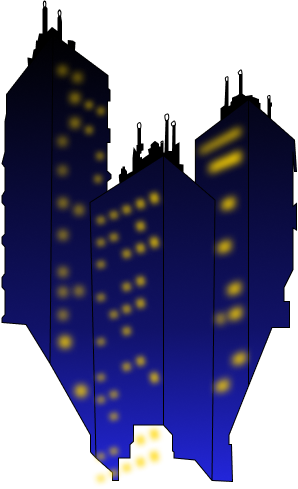
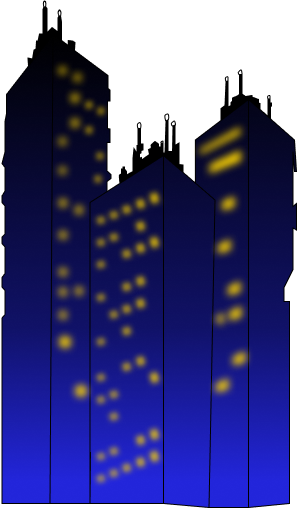
clean-up showBuilding objects. insert navigation click method.

diff --git a/src/container/main/fragment/ShowBuilding.tsx b/src/container/main/fragment/ShowBuilding.tsx
@@ -1,19 +1,77 @@
-import React from 'react';
+import React, { RefObject, useEffect, useRef } from 'react';
 import styled from '@emotion/styled';
 import { ReactComponent as BlurEffect } from '../../../assets/header/blur_effect.svg';
 import { ReactComponent as DarkBuilding } from '../../../assets/header/dark buildeing.svg';
+import { ReactComponent as Ground } from '../../../assets/header/ground.svg';
 import { ReactComponent as Logo } from '../../../assets/logo.svg';
 import Background from '../../../assets/header/background.png';
 import BrightBuilding from '../../../assets/header/bright building.png';
 
-const ShowBuilding = () => {
+export interface ReferenceProp {
+  callbackHeight: (height: number) => void;
+}
+
+const ShowBuilding: React.FC<ReferenceProp> = ({ callbackHeight }) => {
+  const darkBuildingRef = useRef<SVGSVGElement>(null);
+  const brightBuildingRef = useRef<HTMLImageElement>(null);
+  const starsRef = useRef<HTMLImageElement>(null);
+  const groundRef = useRef<SVGSVGElement>(null);
+
+  const WrapperRef = useRef<HTMLDivElement>(null);
+
+  const scrollHandler = () => {
+    if (
+      !darkBuildingRef.current ||
+      !brightBuildingRef.current ||
+      !starsRef.current ||
+      !groundRef.current
+    )
+      return;
+    const scrollTop: number = document.documentElement.scrollTop;
+    groundRef.current.style.transform = `translate3d(-50%, ${
+      -scrollTop * 0.3
+    }px, 0px)`;
+    darkBuildingRef.current.style.transform = `translate3d(-50%, ${
+      -scrollTop * 0.3
+    }px, 0px)`;
+    brightBuildingRef.current.style.transform = `translate3d(-50%, ${
+      -scrollTop * 0.12
+    }px, 0px)`;
+    starsRef.current.style.transform = `translate3d(-50%, ${
+      -scrollTop * 0.01
+    }px, 0px)`;
+  };
+
+  useEffect(() => {
+    window.addEventListener('scroll', scrollHandler);
+    return () => {
+      window.removeEventListener('scroll', scrollHandler);
+    };
+  }, []);
+
+  useEffect(() => {
+    if (!WrapperRef.current) return;
+    callbackHeight(WrapperRef.current.clientHeight);
+  }, []);
+
   return (
-    <Wrapper>
+    <Wrapper ref={WrapperRef}>
       <BuildingWrapper>
-        <img src={Background} alt={'img1'} className={`background`} />
-        <DarkBuilding className={`header-image dark-building`} />
+        <img
+          src={Background}
+          alt={'img1'}
+          className={`background`}
+          ref={starsRef}
+        />
+        <DarkBuilding className={`dark-building`} ref={darkBuildingRef} />
         <BlurEffect className={`header-image blur-effect`} />
-        <img src={BrightBuilding} alt={'img2'} className={'bright-building'} />
+        <img
+          src={BrightBuilding}
+          alt={'img2'}
+          className={`bright-building`}
+          ref={brightBuildingRef}
+        />
+        <Ground className={`ground`} ref={groundRef} />
         <div className={'logo'}>
           <Logo />
           <span
@@ -31,52 +89,77 @@ const ShowBuilding = () => {
 };
 
 const Wrapper = styled.div`
-  min-height: 720px;
+  width: var(--desktop-content);
   position: relative;
-  top: 0;
-  left: 0;
+  margin: -30px auto;
 `;
 
 const BuildingWrapper = styled.div`
+  position: relative;
+  width: 100%;
+  height: 720px;
+  display: flex;
+  justify-content: center;
+
   & > svg.header-image {
-    position: absolute;
+    position: fixed;
     user-select: none;
+    top: 0;
     left: 50%;
-    transform: translate(-50%);
+    transform: translateX(-50%);
+    margin: 0 auto;
   }
 
   & > img {
-    position: absolute;
+    position: fixed;
     user-select: none;
+  }
+
+  .background {
+    max-width: 1436px;
+    max-height: 1138px;
+    height: 100vh;
+    z-index: 0;
+    left: 50%;
+  }
+
+  .bright-building {
+    max-width: 500px;
+    max-height: 1138px;
+    height: 100vh;
+    z-index: 1;
+    top: 0;
+    left: 50%;
+  }
+
+  .ground {
+    width: 100vw;
+    position: fixed;
+    top: 80%;
+    z-index: 2;
     left: 50%;
     transform: translate(-50%);
   }
 
-  .background {
-    width: 1183px;
-    z-index: 0;
-  }
-
-  .bright-building {
-    width: 242px;
-    z-index: 1;
-    top: calc(26% - 20px);
-    left: calc(50% - 13px);
-  }
-
   .blur-effect {
+    height: 100vw;
     z-index: 2;
     top: 10%;
   }
 
   .dark-building {
-    width: 1183px;
+    max-width: 100%;
+    height: 100vh;
+    position: fixed;
+    top: 20%;
+    left: 50%;
+    transform: translateX(-50%);
     z-index: 3;
   }
 
   .logo {
     position: absolute;
-    bottom: calc(-20% - var(--gap-16));
+    top: calc(100% + var(--gap-16));
     left: 50%;
     transform: translateX(-50%);
     z-index: 4;

diff --git a/src/component/Navigation.tsx b/src/component/Navigation.tsx
@@ -1,33 +1,63 @@
-import React from 'react';
+import React, { RefObject } from 'react';
 import styled from '@emotion/styled';
 import { ReactComponent as Logo } from '../assets/logo.svg';
 
-const Navigation = () => {
+interface MoveProp {
+  ScrollHeights: number[];
+}
+
+const Navigation: React.FC<MoveProp> = ({ ScrollHeights }) => {
+  const NavigatorHandler = (index: number) => {
+    console.log(ScrollHeights);
+    if (ScrollHeights.length <= index) return;
+    let scrollOffset = 0;
+    ScrollHeights.forEach((item, i) => {
+      if (i <= index) {
+        scrollOffset += item;
+      }
+    });
+    window.scrollTo({ top: scrollOffset, behavior: 'smooth' });
+  };
   return (
     <Wrapper>
-      <Logo />
+      <Logo
+        onClick={() => {
+          window.scrollTo({ top: 0, behavior: 'smooth' });
+        }}
+      />
       <NavItems>
-        <span className={'icy-justice-16'}>story</span>
-        <span className={'icy-justice-16'}>collection</span>
-        <span className={'icy-justice-16'}>roadmap</span>
-        <span className={'icy-justice-16'}>team</span>
-        <span className={'icy-justice-16'}>faq</span>
+        <span className={'icy-justice-16'} onClick={() => NavigatorHandler(0)}>
+          story
+        </span>
+        <span className={'icy-justice-16'} onClick={() => NavigatorHandler(1)}>
+          collection
+        </span>
+        <span className={'icy-justice-16'} onClick={() => NavigatorHandler(2)}>
+          roadmap
+        </span>
+        <span className={'icy-justice-16'} onClick={() => NavigatorHandler(3)}>
+          team
+        </span>
+        <span className={'icy-justice-16'} onClick={() => NavigatorHandler(4)}>
+          faq
+        </span>
       </NavItems>
     </Wrapper>
   );
 };
 
 const Wrapper = styled.div`
-  position: absolute;
-  left: 50%;
-  transform: translate(-50%);
+  position: sticky;
+  left: 0;
+  top: var(--gap-48);
+  max-width: 100vw;
   width: var(--desktop-content);
   display: flex;
   justify-content: space-between;
   align-items: center;
   gap: var(--gap-64);
-  margin: var(--gap-48) auto 0 auto;
-  z-index: 5;
+  margin: 0 auto;
+  z-index: 10;
 
   & > svg {
     cursor: pointer;

diff --git a/src/container/main/fragment/Article.tsx b/src/container/main/fragment/Article.tsx
@@ -1,17 +1,20 @@
-import React, { useRef, useState } from 'react';
+import React, { useEffect, useRef, useState } from 'react';
 import styled from '@emotion/styled';
 import NetflixDivider from '../../../assets/divider/netflix-backgorund.png';
 import BrowserDndTab from '../../../component/BrowserDndTab';
 import NewsBrowser from '../../../component/NewsBrowser';
+import { ReferenceProp } from './ShowBuilding';
 
 interface EpisodeType {
   isSelected: boolean;
 }
 
-const Article = () => {
+const Article: React.FC<ReferenceProp> = ({ callbackHeight }) => {
   const [selectedIndex, setSelectedIndex] = useState<number>(0);
   const selectedIndexList = useRef<number[]>([0]);
   const [render, setRender] = useState<boolean>(false);
+
+  const ref = useRef<HTMLDivElement>(null);
   const reRender = () => setRender((prev) => !prev);
   //TODO: Extract IndexList from NetflixEpisode Container and join with newsBrowser. adjust DND effect.
 
@@ -23,8 +26,13 @@ const Article = () => {
     }
   };
 
+  useEffect(() => {
+    if (!ref.current) return;
+    callbackHeight(ref.current.clientHeight);
+  }, []);
+
   return (
-    <Wrapper>
+    <Wrapper ref={ref}>
       <img src={NetflixDivider} alt={'divider'} />
       <div className={'background'} />
       <NetflixContainer>

diff --git a/src/container/main/mainIndex.tsx b/src/container/main/mainIndex.tsx
@@ -1,4 +1,4 @@
-import React from 'react';
+import React, { useState } from 'react';
 import styled from '@emotion/styled';
 import ShowBuilding from './fragment/ShowBuilding';
 import Navigation from '../../component/Navigation';
@@ -8,11 +8,26 @@ import InfiniteBand from '../../component/InfiniteBand';
 import RoadMap from '../../component/RoadMap';
 
 const MainIndex = () => {
+  const [refHeights, setRefHeights] = useState<number[]>([]);
+
+  const heightManager = (height: number, index: number) => {
+    refHeights[index] = height;
+    setRefHeights((prev) => [...prev]);
+  };
+
   return (
     <Wrapper>
-      <Navigation />
-      <ShowBuilding />
-      <Article />
+      <Navigation ScrollHeights={refHeights} />
+      <ShowBuilding
+        callbackHeight={(height) => {
+          heightManager(height, 0);
+        }}
+      />
+      <Article
+        callbackHeight={(height) => {
+          heightManager(height, 1);
+        }}
+      />
       <Collection />
       <InfiniteBand />
       <RoadMap />
@@ -24,6 +39,7 @@ const Wrapper = styled.div`
   display: flex;
   flex-direction: column;
   flex-wrap: nowrap;
+  background: #000000;
 `;
 
 export default MainIndex;
